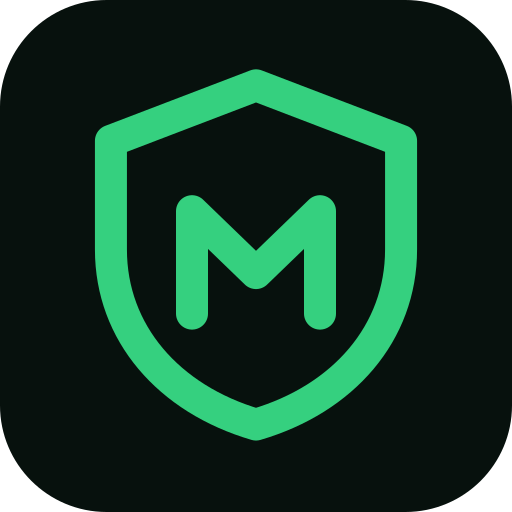
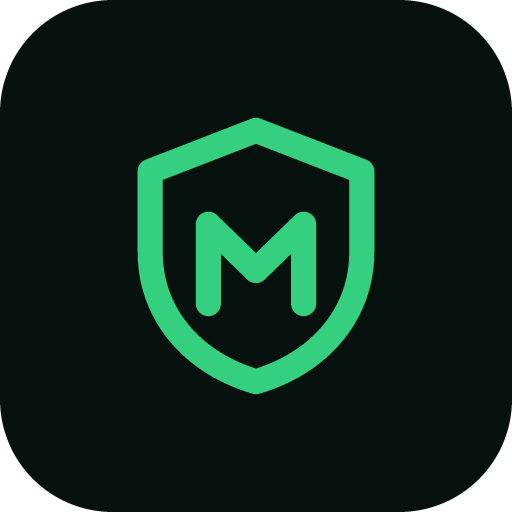
Icone do app passa a ser o mesmo simbolo que esta dentro dele
O PWA e o BrandMark.js eram dois desenhos diferentes do mesmo escudo: o de dentro do app e traco fino e geometria limpa; o do PWA tinha sido redesenhado a mao, mais pesado e com a base arredondada. Duas verdades para a mesma marca e uma a mais.

Agora os PNGs saem da geometria do BrandMark, por um script versionado. Sem sharp, canvas, resvg nem navegador nesta maquina -- instalar um rasterizador de 40 MB para desenhar dois tracos seria desproporcional. O desenho e feito por campo de distancia: para cada ponto da imagem calcula-se a menor distancia ate a linha e pinta-se onde ela e menor que meia espessura, que e literalmente a definicao de traco com ponta redonda; junções e pontas saem certas sem codigo de canto. Serrilhado resolvido com 16 amostras por pixel, e o PNG e escrito na mao (IHDR/IDAT/IEND + CRC32) com o zlib do proprio Node.

Fundo chapado por decisao tomada olhando o resultado: a primeira versao tinha um degrade sutil entre duas cores muito proximas, e ele aparecia como uma faixa horizontal nitida no meio do icone. Entre #0b1a13 e #07110d cabem poucos passos de 8 bits, e o degrade vira degrau.

Novo icon-maskable-512 com a marca menor: o Android corta ate 20% de cada lado, e no icone antigo o escudo perdia a ponta em telefone de mascara redonda. Novo icon.svg entra no manifest e no <link rel=icon> na frente dos PNGs.

diff --git a/frontend/public/index.html b/frontend/public/index.html
@@ -20,7 +20,11 @@
     />
 
     <link rel="manifest" href="%PUBLIC_URL%/manifest.json" />
-    <link rel="icon" href="%PUBLIC_URL%/icon-192.png" />
+    <!-- O SVG primeiro: na aba do navegador o ícone é desenhado no tamanho que
+         a tela pedir, sem depender de um PNG escolhido no chute. Quem não
+         entende SVG cai no PNG da linha seguinte. -->
+    <link rel="icon" type="image/svg+xml" href="%PUBLIC_URL%/icon.svg" />
+    <link rel="icon" type="image/png" sizes="192x192" href="%PUBLIC_URL%/icon-192.png" />
     <link rel="apple-touch-icon" href="%PUBLIC_URL%/apple-touch-icon.png" />
 
     <meta name="apple-mobile-web-app-capable" content="yes" />